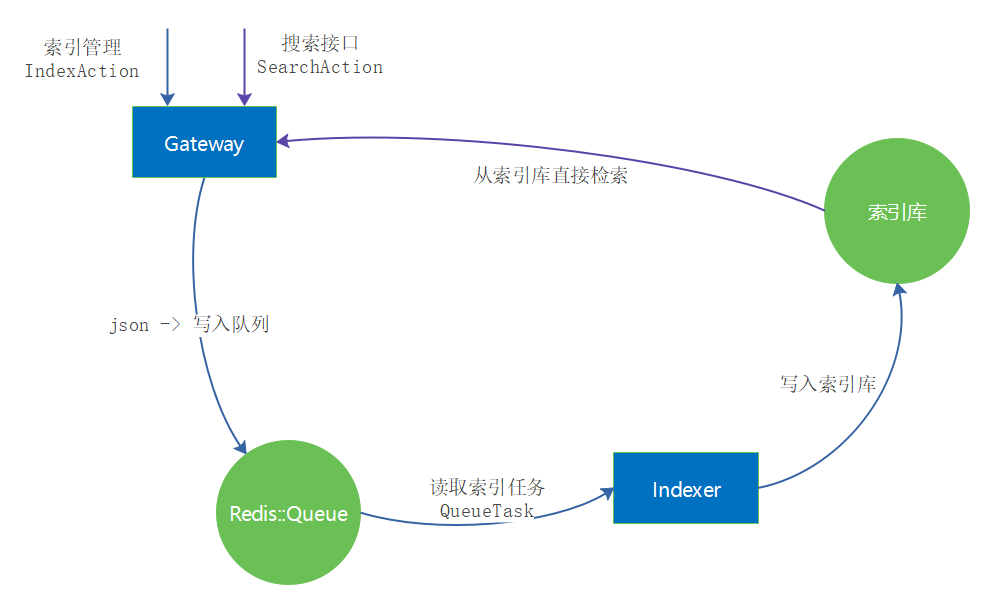
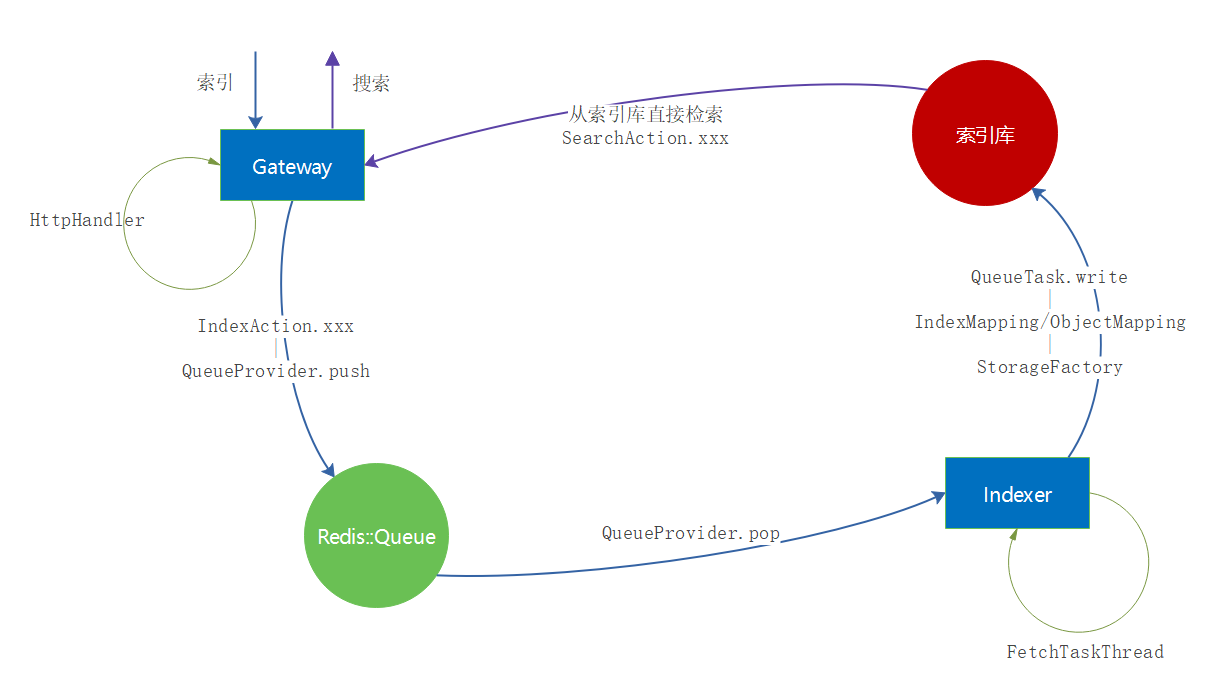
更新说明

diff --git a/readme.md b/readme.md
@@ -1,6 +1,10 @@
 ### Gitee Search
 Gitee Search 是 Gitee 的搜索引擎服务模块，为 Gitee 提供仓库、Issue、代码等搜索服务。
 
+整个 Gitee Search 服务包含两个进程，分别是 gateway 和 indexer。其中 gateway 用来接受来自 HTTP 的索引任务，
+对任务进行检查后存放到队列中；同时 gateway 还接受搜索的请求，并返回搜索结果给客户端。而 indexer 进程负责监控队列中的索引任务，
+并这些要新增、删除和修改索引的任务更新到索引库中。
+
 #### 模块说明
 
 * `core`    核心对象和公共类
@@ -13,9 +17,20 @@ Gitee Search 是 Gitee 的搜索引擎服务模块，为 Gitee 提供仓库、Is
 
 #### 使用方法
 
-1. 构建
+1. 构建并运行
+
+Windows 系统请使用 indexer.bat 和 gateway.bat
 
 ```
 $ git clone https://gitee.com/oschina/gitee-search.git
-$ mvn compile
+$ cd gitee-search
+$ mvn package
+### 启动 indexer
+$ ./indexer.sh start
+### 启动 gateway
+$ ./gateway.sh start
+### 停止 gateway
+$ ./gateway.sh stop
+### 停止 indexer
+$ ./indexer.sh stop
 ```
